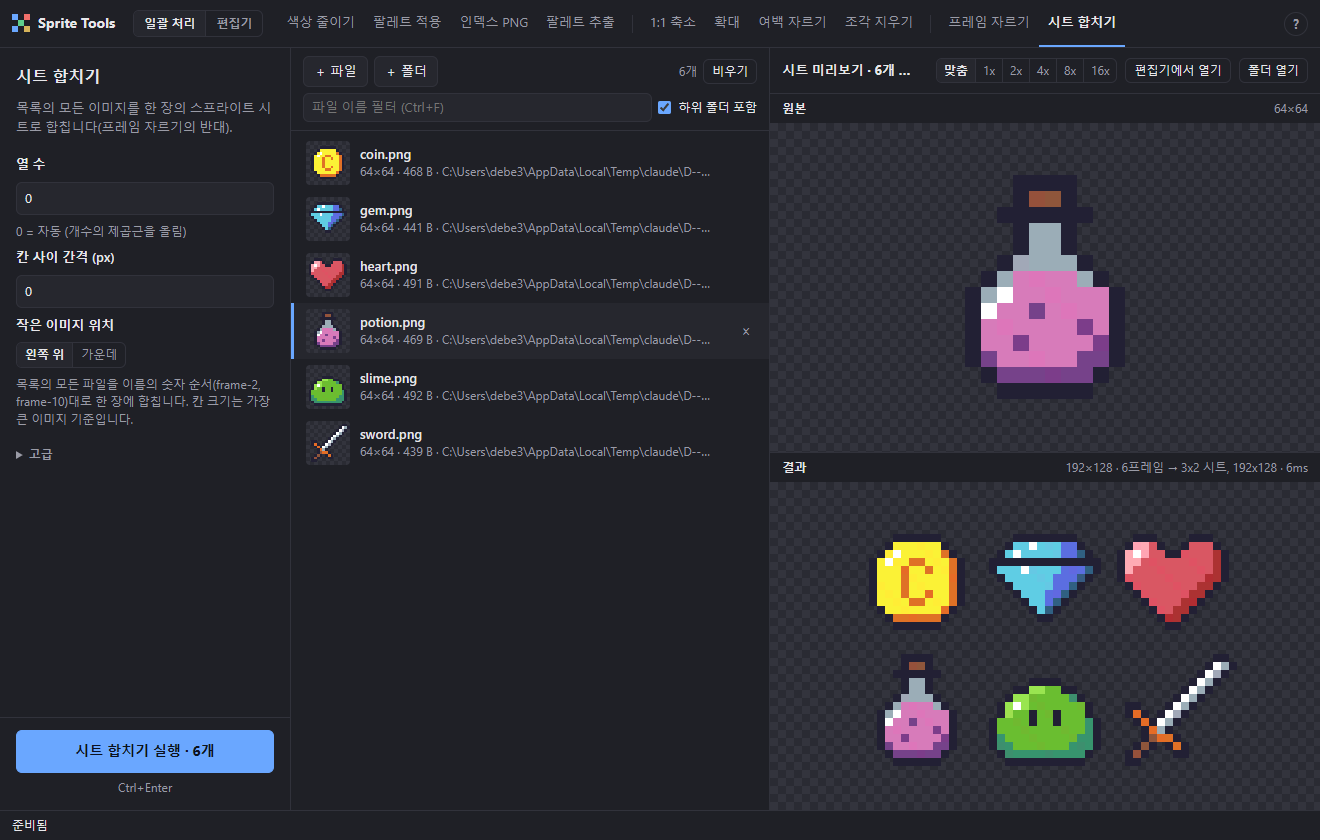
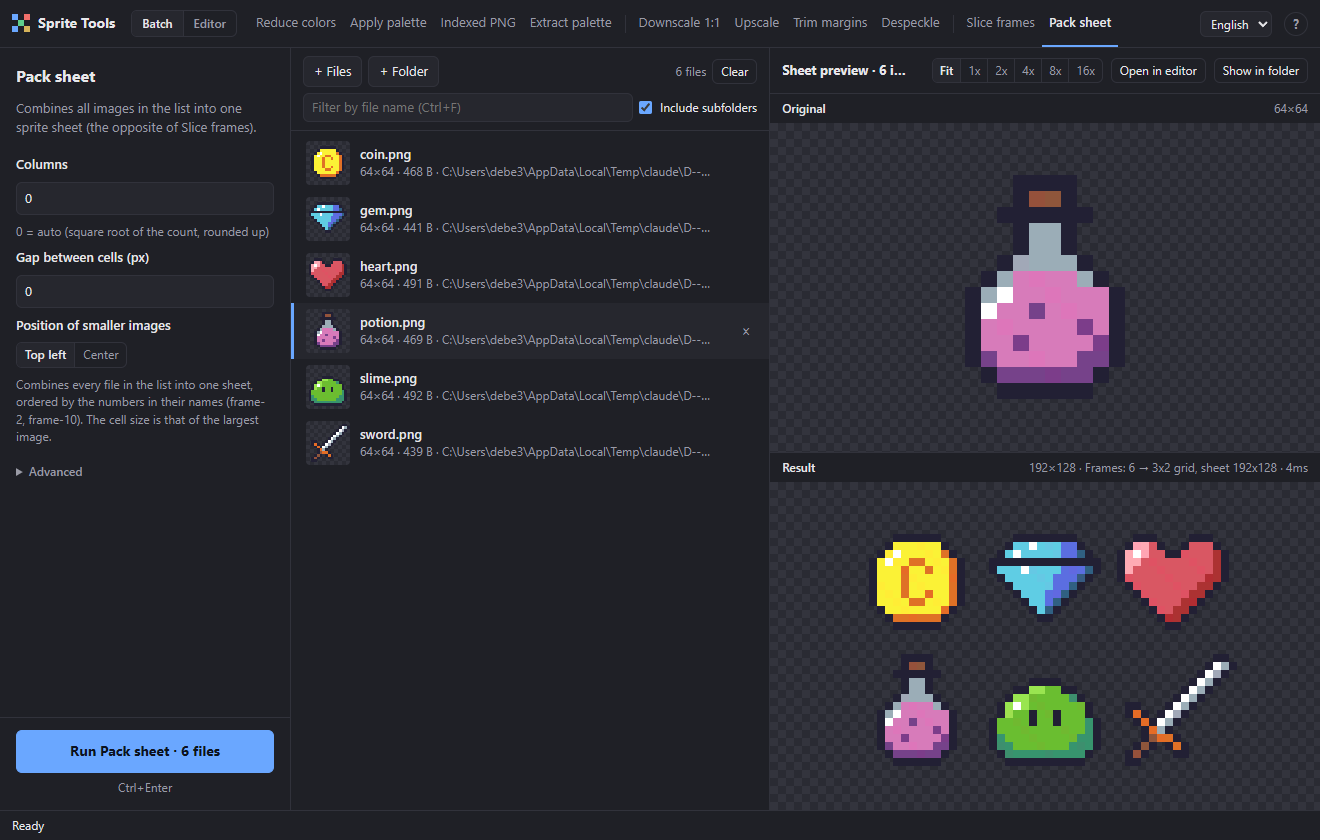
Update screenshots for English and Korean README

diff --git a/README.ko.md b/README.ko.md
@@ -15,9 +15,9 @@ sprite-tools help
 
 | 일괄 처리 | 편집기 |
 | --- | --- |
-| ![일괄 처리 - 색상 줄이기](docs/screenshots/batch-reduce.png) | ![편집기](docs/screenshots/editor.png) |
+| ![일괄 처리 - 색상 줄이기](docs/screenshots/ko/batch-reduce.png) | ![편집기](docs/screenshots/ko/editor.png) |
 
-![일괄 처리 - 시트 합치기](docs/screenshots/batch-pack.png)
+![일괄 처리 - 시트 합치기](docs/screenshots/ko/batch-pack.png)
 
 ```
 cd gui
